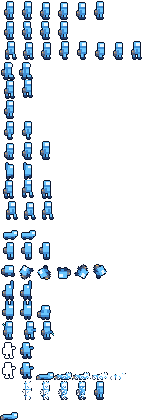
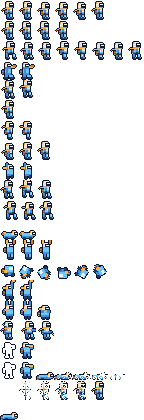
Redesign Trevor: helmeted climber instead of a blue capsule
The old sprite was a solid blue capsule with a big visor and a backpack, which
reads as a copy of a famous crewmate design at a glance. Now: an off-white
helmet with a dark faceplate, one lit visor slit and an orange crest, an
undersuit in the player's suit colour, chest plate, gloves, knee and boot
plates, and the orange scarf knotted at the neck as part of the default look.
The five colours the palette-swap shader matches are unchanged, so every
colour option still works.

diff --git a/tools/gen_pixel_art.py b/tools/gen_pixel_art.py
@@ -28,6 +28,12 @@ BOOT = (36, 59, 102, 255)
 SCARF = (255, 179, 71, 255)
 SCARF_SHADE = (214, 126, 32, 255)
 CLEAR = (0, 0, 0, 0)
+# Armour: the helmet shell, shoulder and chest plates (not recoloured by the suit option, so every colour
+# choice keeps the same silhouette), the dark faceplate and the undersuit.
+PLATE = (232, 228, 214, 255)
+PLATE_SHADE = (168, 166, 160, 255)
+FACE = (20, 28, 48, 255)
+GLOVE = (44, 50, 66, 255)
 
 
 
@@ -52,7 +58,7 @@ POSE_ANCHORS = {
 
 def arect(d, x0, y0, x1, y1, c):
     """Scarf pixels: drawn only when the scarf accessory is selected."""
-    if ACC == "scarf":
+    if ACC in ("scarf", "pack"):
         rect(d, x0, y0, x1, y1, c)
 
 
@@ -64,9 +70,28 @@ def _accessory(d):
         rect(d, hx, max(hy - 1, 0), hx, max(hy - 1, 0), (150, 160, 185, 255))
         rect(d, hx, max(hy - 2, 0), hx, max(hy - 2, 0), SCARF)
     elif ACC == "pack":
-        rect(d, bx - 2, by, bx, by + 4, (118, 128, 152, 255))
-        rect(d, bx - 2, by + 3, bx, by + 4, (84, 92, 114, 255))
-        rect(d, bx - 2, by + 1, bx - 2, by + 1, SCARF)
+        rect(d, bx - 2, by, bx - 1, by + 3, (84, 92, 114, 255))
+        rect(d, bx - 2, by + 1, bx - 1, by + 1, SCARF_SHADE)
+        px(d, bx - 2, by + 3, PLATE_SHADE)
+
+
+def helm(d, x0, y0, x1, y1, face_right=True):
+    """Trevor's helmet: a rounded off-white shell, a dark faceplate on the facing side with one glowing visor
+    slit, and an orange crest fin on the back. Bigger than the old bean head, so the silhouette reads as a
+    helmeted climber, not a capsule with a window."""
+    rect(d, x0, y0 + 1, x1, y1, PLATE)
+    rect(d, x0 + 1, y0, x1 - 1, y0, PLATE)
+    rect(d, x0, y1, x1, y1, PLATE_SHADE)
+    if face_right:
+        fx0, fx1 = max(x0 + 2, x1 - 3), x1
+    else:
+        fx0, fx1 = x0, min(x1 - 2, x0 + 3)
+    rect(d, fx0, y0 + 1, fx1, y1 - 1, FACE)
+    vy = y0 + (y1 - y0) // 2
+    rect(d, fx0 + 1 if face_right else fx0, vy, fx1 if face_right else fx1 - 1, vy, VISOR)
+    bx = x0 if face_right else x1
+    px(d, bx, y0, SCARF_SHADE)
+    px(d, bx, y0 + 1, SCARF)
 
 
 def px(d, x, y, c):
@@ -110,8 +135,7 @@ def draw_player(
         # Low, long body skidding right.
         rect(d, 4, 13, 14, 17, SUIT)
         rect(d, 4, 16, 14, 17, SUIT_SHADE)
-        rect(d, 12, 11, 16, 15, SUIT)  # head forward
-        rect(d, 14, 12, 16, 13, VISOR)
+        helm(d, 12, 11, 16, 15)
         arect(d, 3, 12, 5, 13, SCARF)
         arect(d, 2, 13, 3, 14, SCARF_SHADE)
         rect(d, 5, 17, 7, 18, BOOT)
@@ -121,8 +145,7 @@ def draw_player(
 
     if pose == "wall":
         # Back against a wall on the left, one hand up.
-        rect(d, 7, 5, 12, 9, SUIT)  # head
-        rect(d, 10, 6, 12, 7, VISOR)
+        helm(d, 7, 5, 12, 9)
         rect(d, 7, 10, 12, 15, SUIT)
         rect(d, 7, 14, 12, 15, SUIT_SHADE)
         rect(d, 6, 3, 7, 9, SUIT_SHADE)  # raised arm on the wall
@@ -134,8 +157,7 @@ def draw_player(
 
     if pose == "skid":
         # Braking: leaning back, boots forward and dragging.
-        rect(d, 5, 3, 10, 8, SUIT)
-        rect(d, 8, 4, 11, 6, VISOR)
+        helm(d, 5, 3, 10, 8)
         rect(d, 5, 7, 10, 8, SUIT_SHADE)
         rect(d, 5, 9, 10, 14, SUIT)
         rect(d, 5, 13, 10, 14, SUIT_SHADE)
@@ -162,8 +184,7 @@ def draw_player(
 
     if pose == "pound":
         # Diving straight down, fist first.
-        rect(d, 7, 3, 12, 7, SUIT)
-        rect(d, 10, 4, 12, 5, VISOR)
+        helm(d, 7, 3, 12, 7)
         rect(d, 7, 8, 12, 13, SUIT)
         rect(d, 7, 12, 12, 13, SUIT_SHADE)
         rect(d, 8, 14, 9, 17, SUIT_SHADE)
@@ -176,8 +197,7 @@ def draw_player(
 
     if pose == "grapple":
         # One arm thrown up and forward, hook line implied.
-        rect(d, 6, 5, 11, 9, SUIT)
-        rect(d, 9, 6, 11, 7, VISOR)
+        helm(d, 6, 5, 11, 9)
         rect(d, 6, 10, 11, 15, SUIT)
         rect(d, 6, 14, 11, 15, SUIT_SHADE)
         rect(d, 11, 1, 12, 8, SUIT_SHADE)
@@ -192,8 +212,7 @@ def draw_player(
         # Hanging from a ledge by both hands (ledge at the top of the cell).
         rect(d, 6, 1, 7, 6, SUIT_SHADE)
         rect(d, 11, 1, 12, 6, SUIT_SHADE)
-        rect(d, 6, 5, 12, 9, SUIT)
-        rect(d, 9, 6, 12, 7, VISOR)
+        helm(d, 6, 5, 12, 9)
         rect(d, 6, 10, 12, 15, SUIT)
         rect(d, 6, 14, 12, 15, SUIT_SHADE)
         rect(d, 7, 16, 8, 18, BOOT)
@@ -204,8 +223,7 @@ def draw_player(
 
     if pose == "pull":
         # Mid pull-up: elbows locked, torso rising over the edge.
-        rect(d, 6, 6, 12, 10, SUIT)
-        rect(d, 9, 7, 12, 8, VISOR)
+        helm(d, 6, 6, 12, 10)
         rect(d, 5, 11, 12, 16, SUIT)
         rect(d, 5, 15, 12, 16, SUIT_SHADE)
         rect(d, 5, 10, 7, 12, SUIT_SHADE)
@@ -218,8 +236,7 @@ def draw_player(
 
     if pose == "hurt":
         # Struck: head thrown back, arms out, boots off the ground.
-        rect(d, 5, 3, 10, 7, SUIT)
-        rect(d, 8, 4, 10, 5, VISOR)
+        helm(d, 5, 3, 10, 7)
         rect(d, 6, 8, 11, 13, SUIT)
         rect(d, 6, 12, 11, 13, SUIT_SHADE)
         rect(d, 3, 8, 5, 9, SUIT_SHADE)
@@ -236,42 +253,47 @@ def draw_player(
         # Lying where he fell.
         rect(d, 3, 15, 14, 18, SUIT)
         rect(d, 3, 17, 14, 18, SUIT_SHADE)
-        rect(d, 12, 13, 16, 17, SUIT)
-        rect(d, 14, 14, 16, 15, VISOR)
+        helm(d, 12, 13, 16, 17)
         arect(d, 1, 16, 3, 17, SCARF)
         rect(d, 5, 18, 7, 18, BOOT)
         _finish(img, rot, dissolve, flash)
         return img
 
-    # Head
-    rect(d, cx - 2 + look, top, cx + 3 + look, top + 5, SUIT)
-    rect(d, cx + look, top + 1, cx + 3 + look, top + 3, VISOR)
+    # Helmet (one wider than the body, so the head reads as a helmet)
+    helm(d, cx - 3 + look, top, cx + 3 + look, top + 5)
     if visor_glint:
-        px(d, cx + 1 + look, top + 1, VISOR_GLINT)
-    rect(d, cx - 2 + look, top + 4, cx + 3 + look, top + 5, SUIT_SHADE)
-    # Torso
+        px(d, cx + 2 + look, top + 2, VISOR_GLINT)
+    # Torso: undersuit (the suit colour), an off-white chest plate with a lit core, a dark belt
     t0 = top + 6
     t1 = t0 + 5 - squash
-    rect(d, cx - 2, t0, cx + 3, t1, SUIT)
-    rect(d, cx - 2, t1 - 1, cx + 3, t1, SUIT_SHADE)
-    # Arm (swings)
+    rect(d, cx - 2, t0, cx + 2, t1, SUIT)
+    rect(d, cx - 2, t1 - 1, cx + 2, t1 - 1, SUIT_SHADE)
+    rect(d, cx, t0, cx + 2, t0 + 2, PLATE)
+    px(d, cx + 1, t0 + 1, SCARF)
+    rect(d, cx - 2, t1, cx + 2, t1, GLOVE)
+    # Arm (swings): a plate shoulder, the suit sleeve and a dark glove
     ax = cx - 1 + arm
     if slash == 0:
-        rect(d, ax, t0 + 1, ax + 1, t0 + 4, SUIT_SHADE)
+        rect(d, ax, t0, ax + 1, t0, PLATE_SHADE)
+        rect(d, ax, t0 + 1, ax + 1, t0 + 3, SUIT_SHADE)
+        rect(d, ax, t0 + 4, ax + 1, t0 + 4, GLOVE)
     else:
         # M1 slash: 1 = wind-up (arm back and up), 2 = strike (arm out, blade lit), 3 = follow-through.
         blade = (110, 240, 255, 255)
         core = (255, 255, 255, 255)
         if slash == 1:
             rect(d, cx - 3, t0 - 2, cx - 2, t0 + 2, SUIT_SHADE)
+            px(d, cx - 3, t0 - 2, GLOVE)
             px(d, cx - 4, t0 - 3, blade)
             px(d, cx - 5, t0 - 4, blade)
         elif slash == 2:
             rect(d, cx + 2, t0 + 1, cx + 6, t0 + 2, SUIT_SHADE)
+            px(d, cx + 6, t0 + 1, GLOVE)
             rect(d, cx + 7, t0 - 2, cx + 8, t0 + 4, blade)
             rect(d, cx + 8, t0 - 1, cx + 8, t0 + 3, core)
         else:
             rect(d, cx + 2, t0 + 3, cx + 5, t0 + 4, SUIT_SHADE)
+            px(d, cx + 5, t0 + 4, GLOVE)
             px(d, cx + 6, t0 + 5, blade)
             px(d, cx + 7, t0 + 6, blade)
     # Legs
@@ -279,13 +301,19 @@ def draw_player(
     ya = min(foot, l0 + 4)
     rect(d, cx - 2 + leg_a, l0, cx - 1 + leg_a, ya - 1, SUIT_SHADE)
     rect(d, cx - 2 + leg_a, ya - 1, cx + leg_a, ya, BOOT)
+    px(d, cx + leg_a, ya - 1, PLATE_SHADE)
     rect(d, cx + 1 + leg_b, l0, cx + 2 + leg_b, ya - 1, SUIT)
+    px(d, cx + 2 + leg_b, l0 + 1, PLATE)
     rect(d, cx + 1 + leg_b, ya - 1, cx + 3 + leg_b, ya, BOOT)
+    px(d, cx + 3 + leg_b, ya - 1, PLATE_SHADE)
     # Scarf streaming left, rising with speed
-    sy = t0 + 1 - scarf_rise
-    arect(d, cx - 5, sy, cx - 2, sy + 1, SCARF)
-    arect(d, cx - 7, sy + 1 - (1 if scarf_rise else 0), cx - 5, sy + 2, SCARF)
-    arect(d, cx - 8, sy + 2 - scarf_rise, cx - 7, sy + 3 - scarf_rise, SCARF_SHADE)
+    # Knotted at the neck, one pixel thick, streaming back and rising with speed (it was a two-row block at
+    # chest height that read as a wing).
+    arect(d, cx - 2, t0, cx, t0, SCARF)
+    sy = t0 - (1 if scarf_rise >= 2 else 0)
+    arect(d, cx - 4, sy, cx - 3, sy, SCARF)
+    arect(d, cx - 6, sy + 1 - min(scarf_rise, 2), cx - 5, sy + 1 - min(scarf_rise, 2), SCARF)
+    arect(d, cx - 7, sy + 2 - scarf_rise, cx - 7, sy + 2 - scarf_rise, SCARF_SHADE)
     _finish(img, rot, dissolve, flash)
     return img
 
